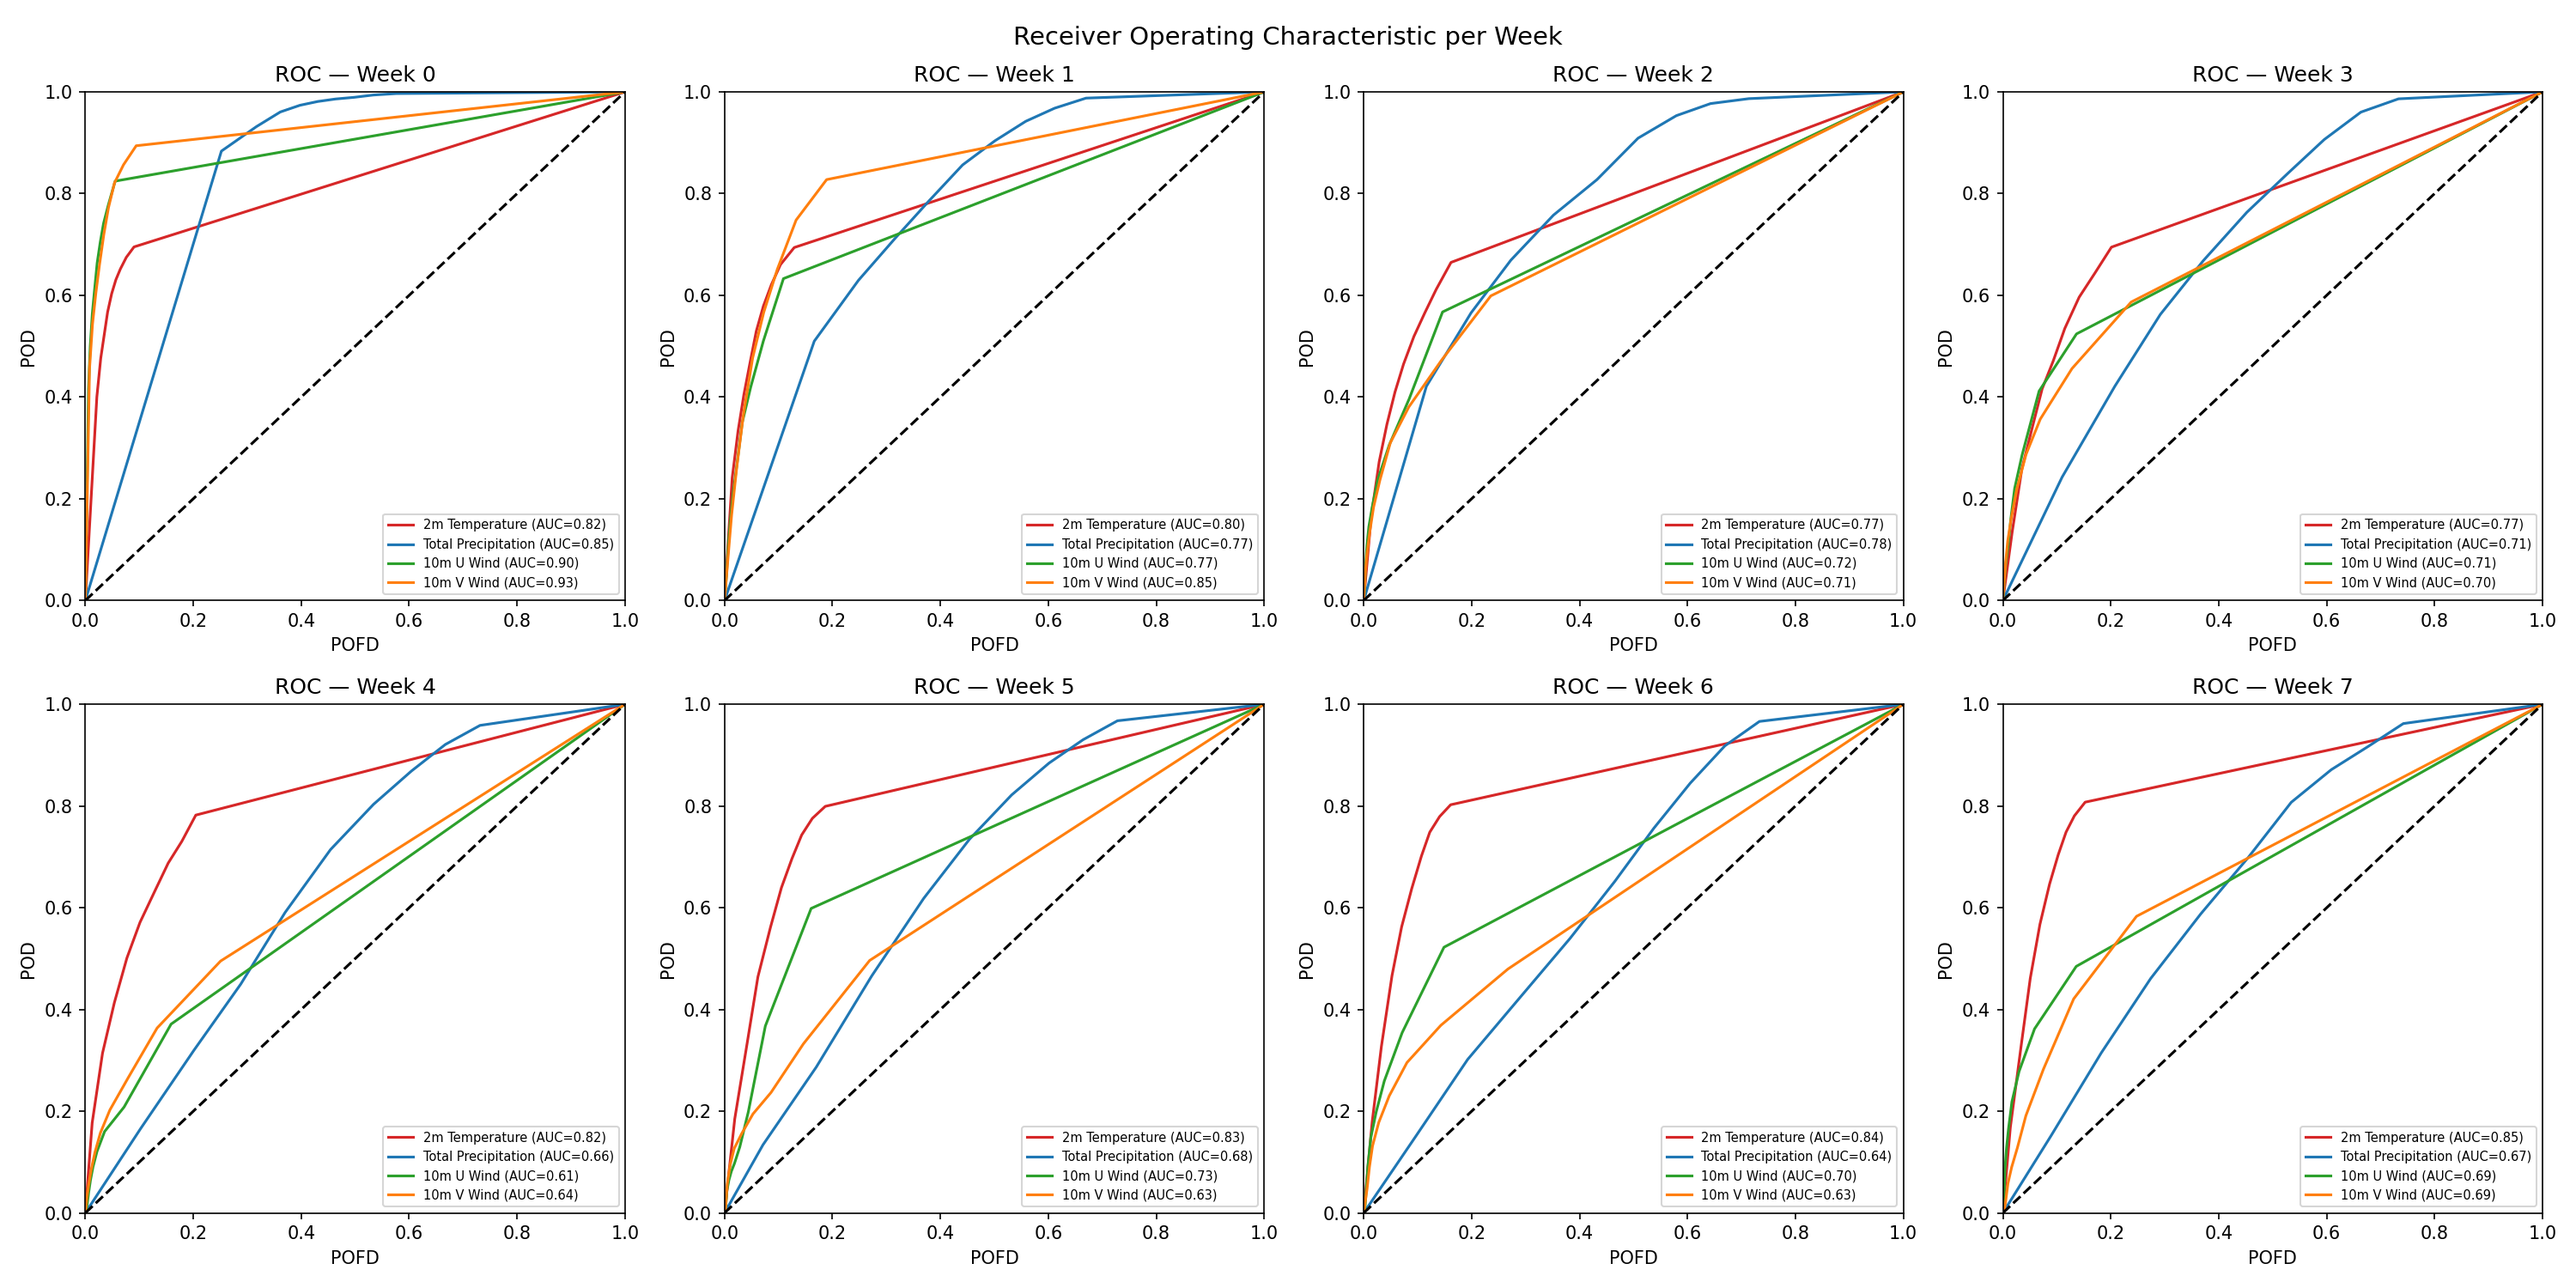
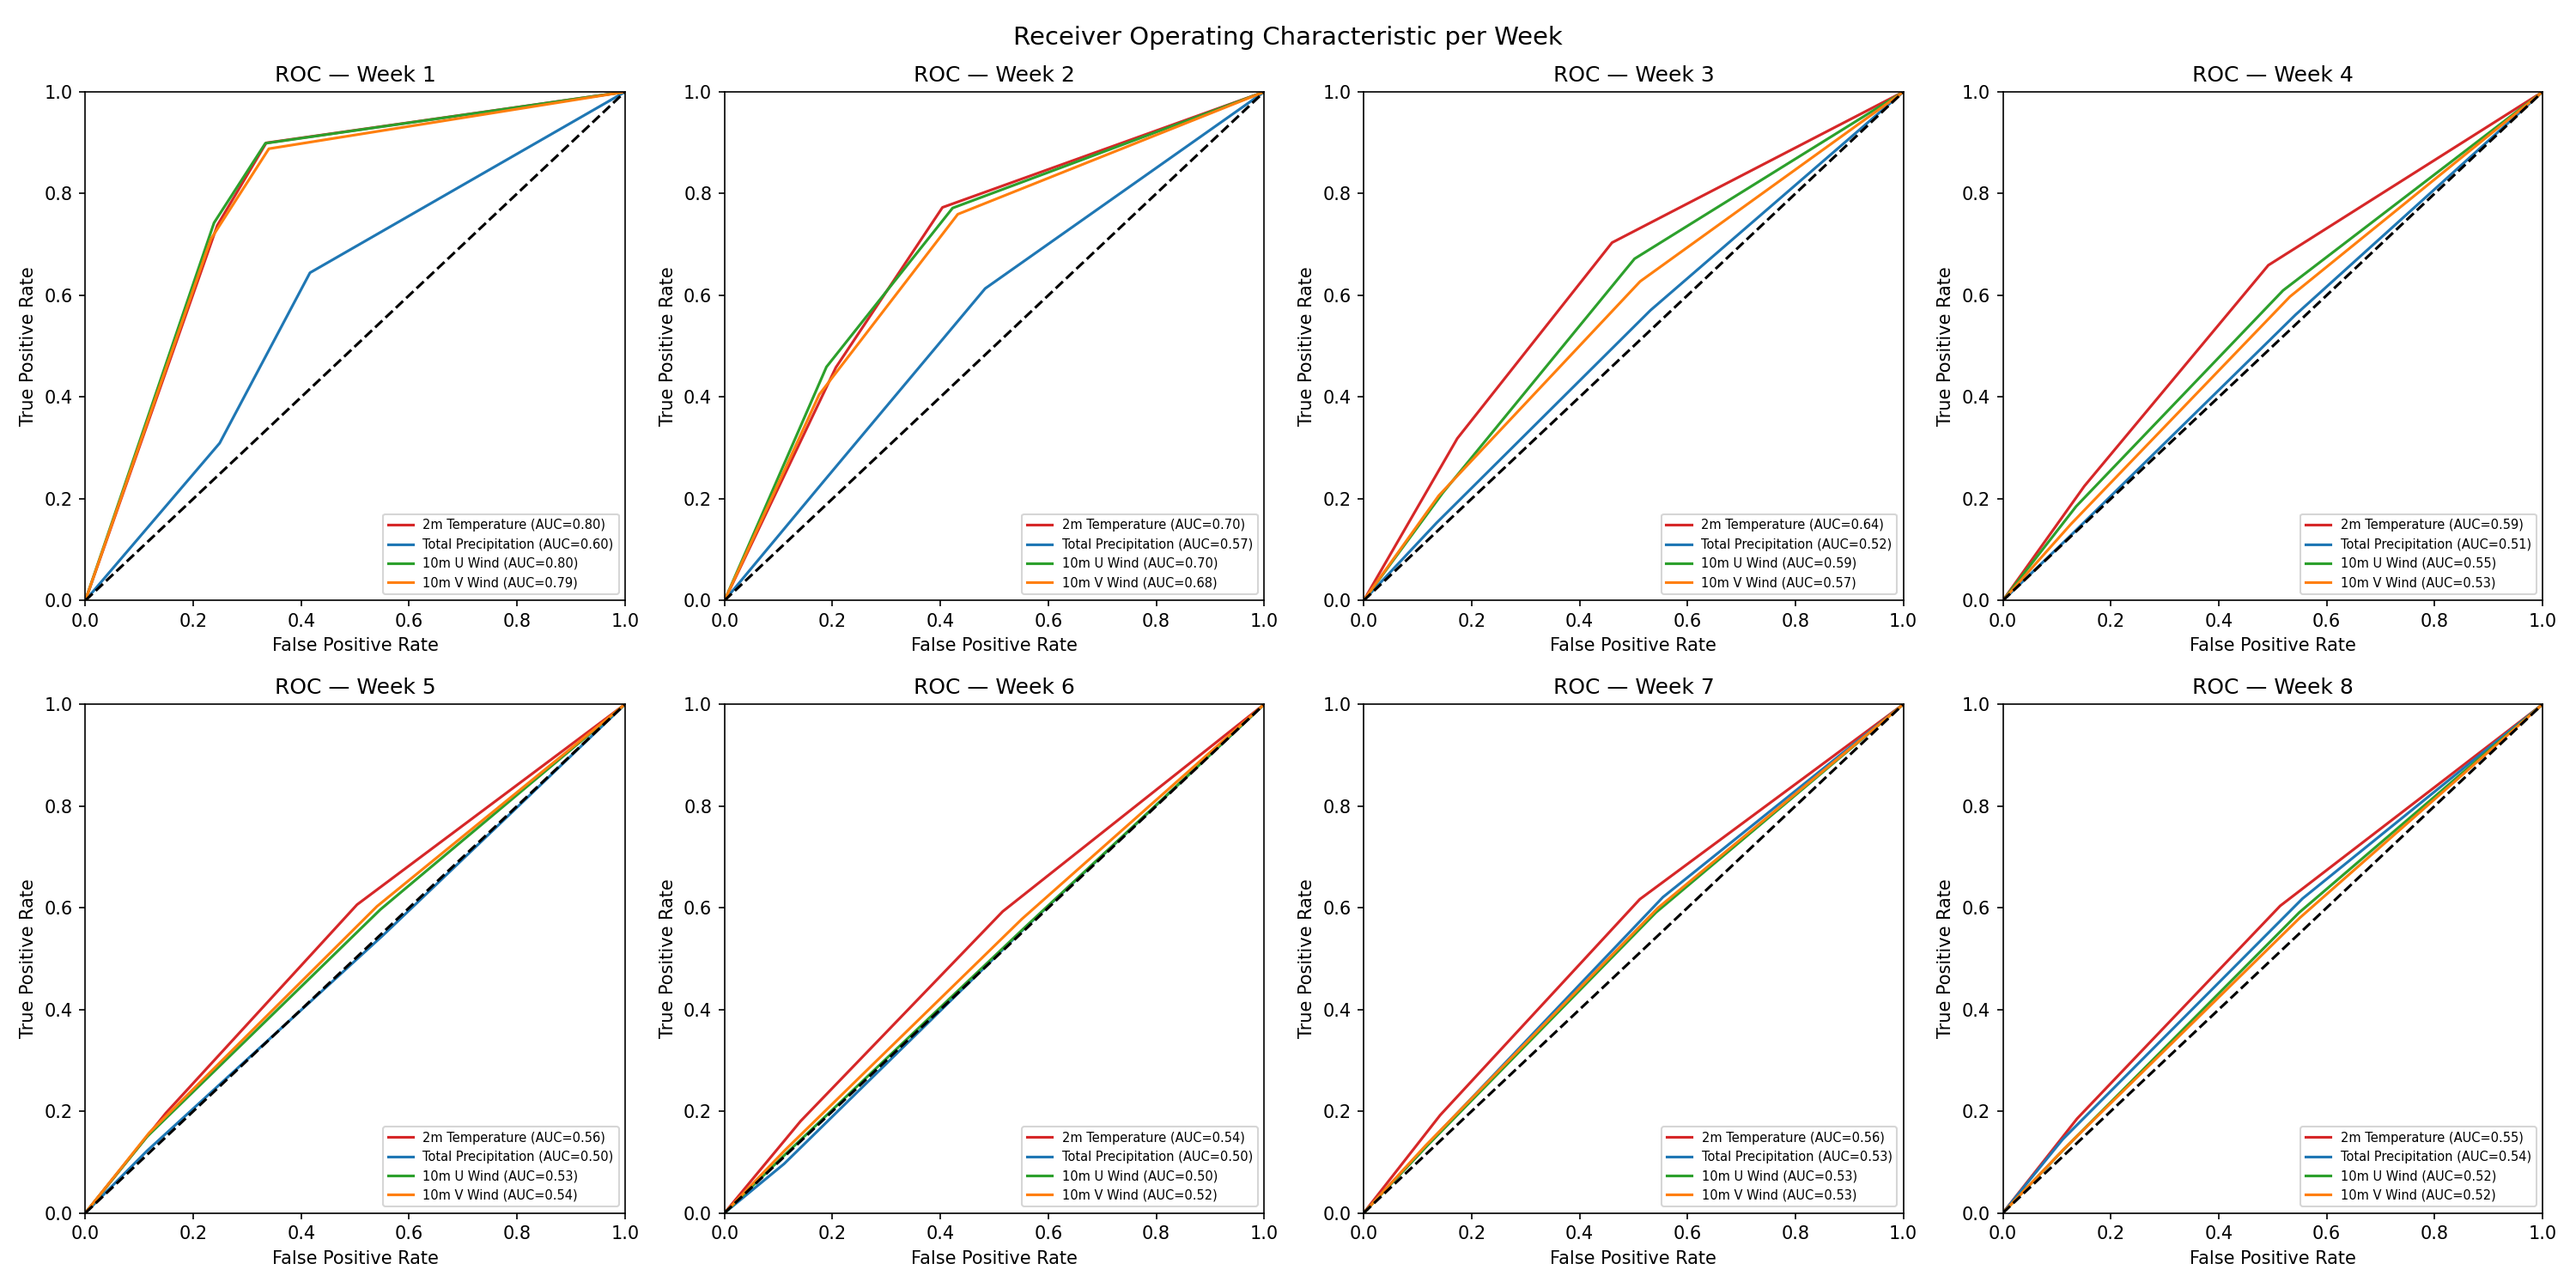
Validation pipeline updated

diff --git a/Anemoi_S2S_experiment/python_scripts/weekly_means/plots_weekly_means.py b/Anemoi_S2S_experiment/python_scripts/weekly_means/plots_weekly_means.py
@@ -40,13 +40,13 @@ RMSE_ds = xr.open_dataset(rmse_path)
 spatial_rmse_path = "/ec/res4/hpcperm/nld4584/Anemoi_S2S_experiment/output_metrics/AIFS/Spatial_RMSE_weekly_AIFS.nc"
 SPATIAL_RMSE_ds = xr.open_dataset(spatial_rmse_path)
 
-
-
 #Roc path and loading
-roc_datasets = {}
-for i in range(8):
-    path = f"/ec/res4/hpcperm/nld4584/Anemoi_S2S_experiment/output_metrics/AIFS/ROC_week_{i}_AIFS.nc"
-    roc_datasets[f"week_{i}"] = xr.open_dataset(path)
+roc_path = "/ec/res4/hpcperm/nld4584/Anemoi_S2S_experiment/output_metrics/AIFS/ROC_weekly_AIFS.nc"
+ROC_ds = xr.open_dataset(roc_path)
+
+#Brier Score path and loading
+brier_score_path = "/ec/res4/hpcperm/nld4584/Anemoi_S2S_experiment/output_metrics/AIFS/Brier_Score_weekly_AIFS.nc"
+brier_score_ds = xr.open_dataset(brier_score_path)
     
 #CRPS path and loading
 crps_path = "/ec/res4/hpcperm/nld4584/Anemoi_S2S_experiment/output_metrics/AIFS/CRPS_weekly_AIFS.nc"
@@ -55,6 +55,15 @@ CRPS_ds = xr.open_dataset(crps_path)
 #SKill/Spread path and loading
 spead_skill_path = "/ec/res4/hpcperm/nld4584/Anemoi_S2S_experiment/output_metrics/AIFS/Spread_Skill_weekly_AIFS.nc"
 spead_skill_ds = xr.open_dataset(spead_skill_path)
+
+#Reliability  path and loading
+reliability_ds_dict = {}
+for var in ["2t", "tp", "10u", "10v"]:
+    reliability_path = f"/ec/res4/hpcperm/nld4584/Anemoi_S2S_experiment/output_metrics/AIFS/Reliability_{var}_weekly_AIFS.nc"
+    reliability_ds = xr.open_dataset(reliability_path)
+    reliability_ds_dict[var] = reliability_ds
+
+
 
 # Line plot data for ACC (ensemble mean metrics)
 lineplot_acc = {
@@ -124,6 +133,22 @@ pf.plot_weekly_lines(
 )
 
 
+#line plot of brier score
+pf.plot_weekly_lines(
+    data_dict={
+        "2m Temperature": brier_score_ds["2t"].mean(dim="init_date").values,
+        "Total Precipitation": brier_score_ds["tp"].mean(dim="init_date").values,
+        "10m U Wind": brier_score_ds["10u"].mean(dim="init_date").values,
+        "10m V Wind": brier_score_ds["10v"].mean(dim="init_date").values
+    },
+    title='Brier Score for Weekly Forecasts of Reference Model',
+    colors=color_vars,
+    savename='/ec/res4/hpcperm/nld4584/Anemoi_S2S_experiment/python_scripts/weekly_means/images/brier_score_AIFS.png',
+    ylabel='Brier Score',
+    ylim=None  # Auto scale for Brier Score since different variables have different scales
+)
+
+
 #spatial maps of RMSE — one figure per variable, 4 weeks each
 spatial_vars = ['2t', 'tp', '10u', '10v']
 spatial_var_labels = {"2t": "2m Temperature", "tp": "Total Precipitation",
@@ -156,23 +181,64 @@ var_labels = {"2t": "2m Temperature", "tp": "Total Precipitation",
 fig, axes = plt.subplots(2, 4, figsize=(20, 10))
 axes = axes.flatten()
 
-for i, (week_key, roc_ds) in enumerate(roc_datasets.items()):
-    ax = axes[i]
+for week_idx in range(8):
+    ax = axes[week_idx]
     for var in var_short:
-        auc_val = roc_ds[f"{var}_AUC"].item()
-        ax.plot(roc_ds[f"{var}_POFD"], roc_ds[f"{var}_POD"],
+        # Average over init_date and select the week
+        roc_week_var = ROC_ds[var].sel(week_lead_time=week_idx+1).mean(dim='init_date')
+        
+        # Extract FPR, TPR, and AUC from the metric dimension
+        fpr = roc_week_var.sel(metric='false positive rate')
+        tpr = roc_week_var.sel(metric='true positive rate')
+        auc_val = roc_week_var.sel(metric='area under curve').mean().item()
+        
+        ax.plot(fpr, tpr,
                 color=color_vars[var_labels[var]],
                 label=f"{var_labels[var]} (AUC={auc_val:.2f})")
     ax.plot([0, 1], [0, 1], "k--")
     ax.set_xlim([0, 1])
     ax.set_ylim([0, 1])
-    ax.set_xlabel("POFD")
-    ax.set_ylabel("POD")
-    ax.set_title(f"ROC — Week {i}")
+    ax.set_xlabel("False Positive Rate")
+    ax.set_ylabel("True Positive Rate")
+    ax.set_title(f"ROC — Week {week_idx+1}")
     ax.legend(loc="lower right", fontsize=7)
 
 fig.suptitle("Receiver Operating Characteristic per Week", fontsize=14)
 plt.tight_layout()
 plt.savefig('/ec/res4/hpcperm/nld4584/Anemoi_S2S_experiment/python_scripts/weekly_means/images/roc_AIFS.png', dpi=150)
-plt.show()
+
+
+# Reliability diagrams — one subplot per week, all variables overlaid
+fig, axes = plt.subplots(2, 4, figsize=(20, 10))
+axes = axes.flatten()
+
+for week_idx in range(8):
+    ax = axes[week_idx]
+    for var in var_short:
+        # Average over init_date and select the week
+        rel_week_var = reliability_ds_dict[var][var].sel(week_lead_time=week_idx+1).mean(dim='init_date')
+        
+        # Get forecast probability (x-axis) and observed frequency (y-axis)
+        forecast_prob = rel_week_var['forecast_probability'].values
+        observed_freq = rel_week_var.values
+        
+        ax.plot(forecast_prob, observed_freq,
+                marker='o',
+                color=color_vars[var_labels[var]],
+                label=var_labels[var])
+    
+    # Add perfect calibration line (diagonal)
+    ax.plot([0, 1], [0, 1], "k--", label="Perfect calibration")
+    ax.set_xlim([0, 1])
+    ax.set_ylim([0, 1])
+    ax.set_xlabel("Forecast Probability")
+    ax.set_ylabel("Observed Frequency")
+    ax.set_title(f"Reliability — Week {week_idx+1}")
+    ax.legend(loc="upper left", fontsize=7)
+    ax.grid(True, alpha=0.3)
+
+fig.suptitle("Reliability Diagrams per Week", fontsize=14)
+plt.tight_layout()
+plt.savefig('/ec/res4/hpcperm/nld4584/Anemoi_S2S_experiment/python_scripts/weekly_means/images/reliability_AIFS.png', dpi=150)
+
 

diff --git a/Anemoi_S2S_experiment/python_scripts/weekly_means/metrics_weekly_means.py b/Anemoi_S2S_experiment/python_scripts/weekly_means/metrics_weekly_means.py
@@ -13,6 +13,7 @@ import importlib
 from utils import metrics_function as mf
 importlib.reload(mf)
 from matplotlib import pyplot as plt
+from xskillscore import roc, brier_score, reliability
 ############################################################################################################################################################
 
 #loading and preprocessing the data
@@ -212,7 +213,6 @@ spatial_rmse_results = xr.DataArray(
     }
 )
 
-
 # Compute CRPS for all init dates, weeks and variables
 crps_results = xr.DataArray(
     data=np.full((n_init_dates, n_vars, n_leadtime), np.nan),
@@ -266,24 +266,15 @@ binary_obs = xr.where(ds_obs_weekly > ds_thresholds, 1, 0)
 binary_model = xr.where(ds_inf_weekly >  ds_thresholds, 1, 0)
 prob_model = binary_model.mean(dim="member")
 
-# Compute ROC data for all weeks and variables using compact loops
-p_threshold = np.linspace(0, 1, 8)
-roc_data = {}
+#roc computation (ROC AUC)
+roc_results = {}           
+for var in var_of_interest:
+    roc_results[var] = roc(binary_obs[var], prob_model[var], dim = "values", bin_edges='continuous', return_results = "all_as_metric_dim")
 
-for init_date in init_dates:
-    print(f"Processing ROC for init date: {init_date}")
-    init_date_key = pd.to_datetime(init_date).strftime('%Y-%m-%d')
-    roc_data[init_date_key] = {}
-    for week in weeks_lead_time:
-        print(f"processing week {week}")
-        week_key = f"week {week}"
-        roc_data[init_date_key][week_key] = {}
-        for var in var_of_interest:
-            roc_data[init_date_key][week_key][var] = roc(
-                prob_model[var].sel(init_date=init_date, week_lead_time=week).compute(), 
-                binary_obs[var].sel(init_date=init_date, week_lead_time=week).compute(), 
-                p_threshold
-            )
+#Brier Score computation
+brier_score_results = {}
+for var in var_of_interest:
+    brier_score_results[var] = brier_score(binary_obs[var], binary_model[var], member_dim = "member", fair=True, dim = "values", weights=lat_weights)
 
 #compute crps for the different weeks and variables
 for init_date in init_dates:
@@ -299,7 +290,6 @@ for init_date in init_dates:
             
 
 #Computation of Spread/Skill ratio for the different weeks and variables
-
 for var in var_of_interest:
     ensemble_spread = ds_inf_weekly[var].std(dim="member")
     spread_squared = ensemble_spread ** 2
@@ -309,6 +299,11 @@ for var in var_of_interest:
     weighted_spread = weighted_spread.rename({"week_lead_time": "leadtime"})
     ensemble_skill = rmse_results.loc[:, var, :]
     spead_skill_results.loc[:, var, :] = (weighted_spread / ensemble_skill).values
+    
+#reliability computation
+reliability_results = {}
+for var in var_of_interest:
+    reliability_results[var] = reliability(binary_obs[var], prob_model[var], dim = "values", probability_bin_edges = np.linspace(0, 1, 9))
 ############################################################################################################################################################
 #export
 
@@ -341,23 +336,16 @@ spatial_rmse_results_ds = spatial_rmse_results_ds.assign_coords(
 nc_spatial_rmse_path = os.path.join(output_dir, "Spatial_RMSE_weekly_AIFS.nc")
 spatial_rmse_results_ds.to_netcdf(nc_spatial_rmse_path)
 
+#roc - save all metrics (FPR, TPR, AUC) with probability bins
+roc_results_ds = xr.Dataset(roc_results)
+nc_roc_path = os.path.join(output_dir, "ROC_weekly_AIFS.nc")
+roc_results_ds.to_netcdf(nc_roc_path)
 
-#roc - save each init_date and week separately as they contain different variables and structures
+#brier score
+brier_score_results_ds = xr.Dataset({var: brier_score_results[var] for var in var_of_interest})
+nc_brier_score_path = os.path.join(output_dir, "Brier_Score_weekly_AIFS.nc")
+brier_score_results_ds.to_netcdf(nc_brier_score_path)
 
-for init_date_key, init_data in roc_data.items():
-    for week_key, week_data in init_data.items():
-        # Merge all variables for this week into one dataset
-        week_ds = xr.merge([week_data[var].rename({metric: f"{var}_{metric}" for metric in week_data[var].data_vars}) 
-                            for var in var_of_interest])
-        
-        # Remove attributes that can't be serialized to NetCDF
-        for var_name in week_ds.data_vars:
-            week_ds[var_name].attrs = {k: v for k, v in week_ds[var_name].attrs.items() 
-                                       if isinstance(v, (str, int, float, list, tuple, bytes, np.ndarray))}
-        
-        nc_roc_week_path = os.path.join(output_dir, f"ROC_{init_date_key}_{week_key.replace(' ', '_')}_AIFS.nc")
-        week_ds.to_netcdf(nc_roc_week_path)
-    
 #crps
 crps_results_ds = xr.Dataset({var: crps_results.sel(variable=var).drop_vars('variable') for var in var_of_interest})
 nc_crps_path = os.path.join(output_dir, "CRPS_weekly_AIFS.nc")
@@ -367,3 +355,8 @@ crps_results_ds.to_netcdf(nc_crps_path)
 spead_skill_results_ds = xr.Dataset({var: spead_skill_results.sel(variable=var).drop_vars('variable') for var in var_of_interest})
 nc_spead_skill_path = os.path.join(output_dir, "Spread_Skill_weekly_AIFS.nc")
 spead_skill_results_ds.to_netcdf(nc_spead_skill_path)
+
+#Reliability - save one file per variable to avoid conflicts
+for var in var_of_interest:
+    nc_reliability_path = os.path.join(output_dir, f"Reliability_{var}_weekly_AIFS.nc")
+    reliability_results[var].to_netcdf(nc_reliability_path)
